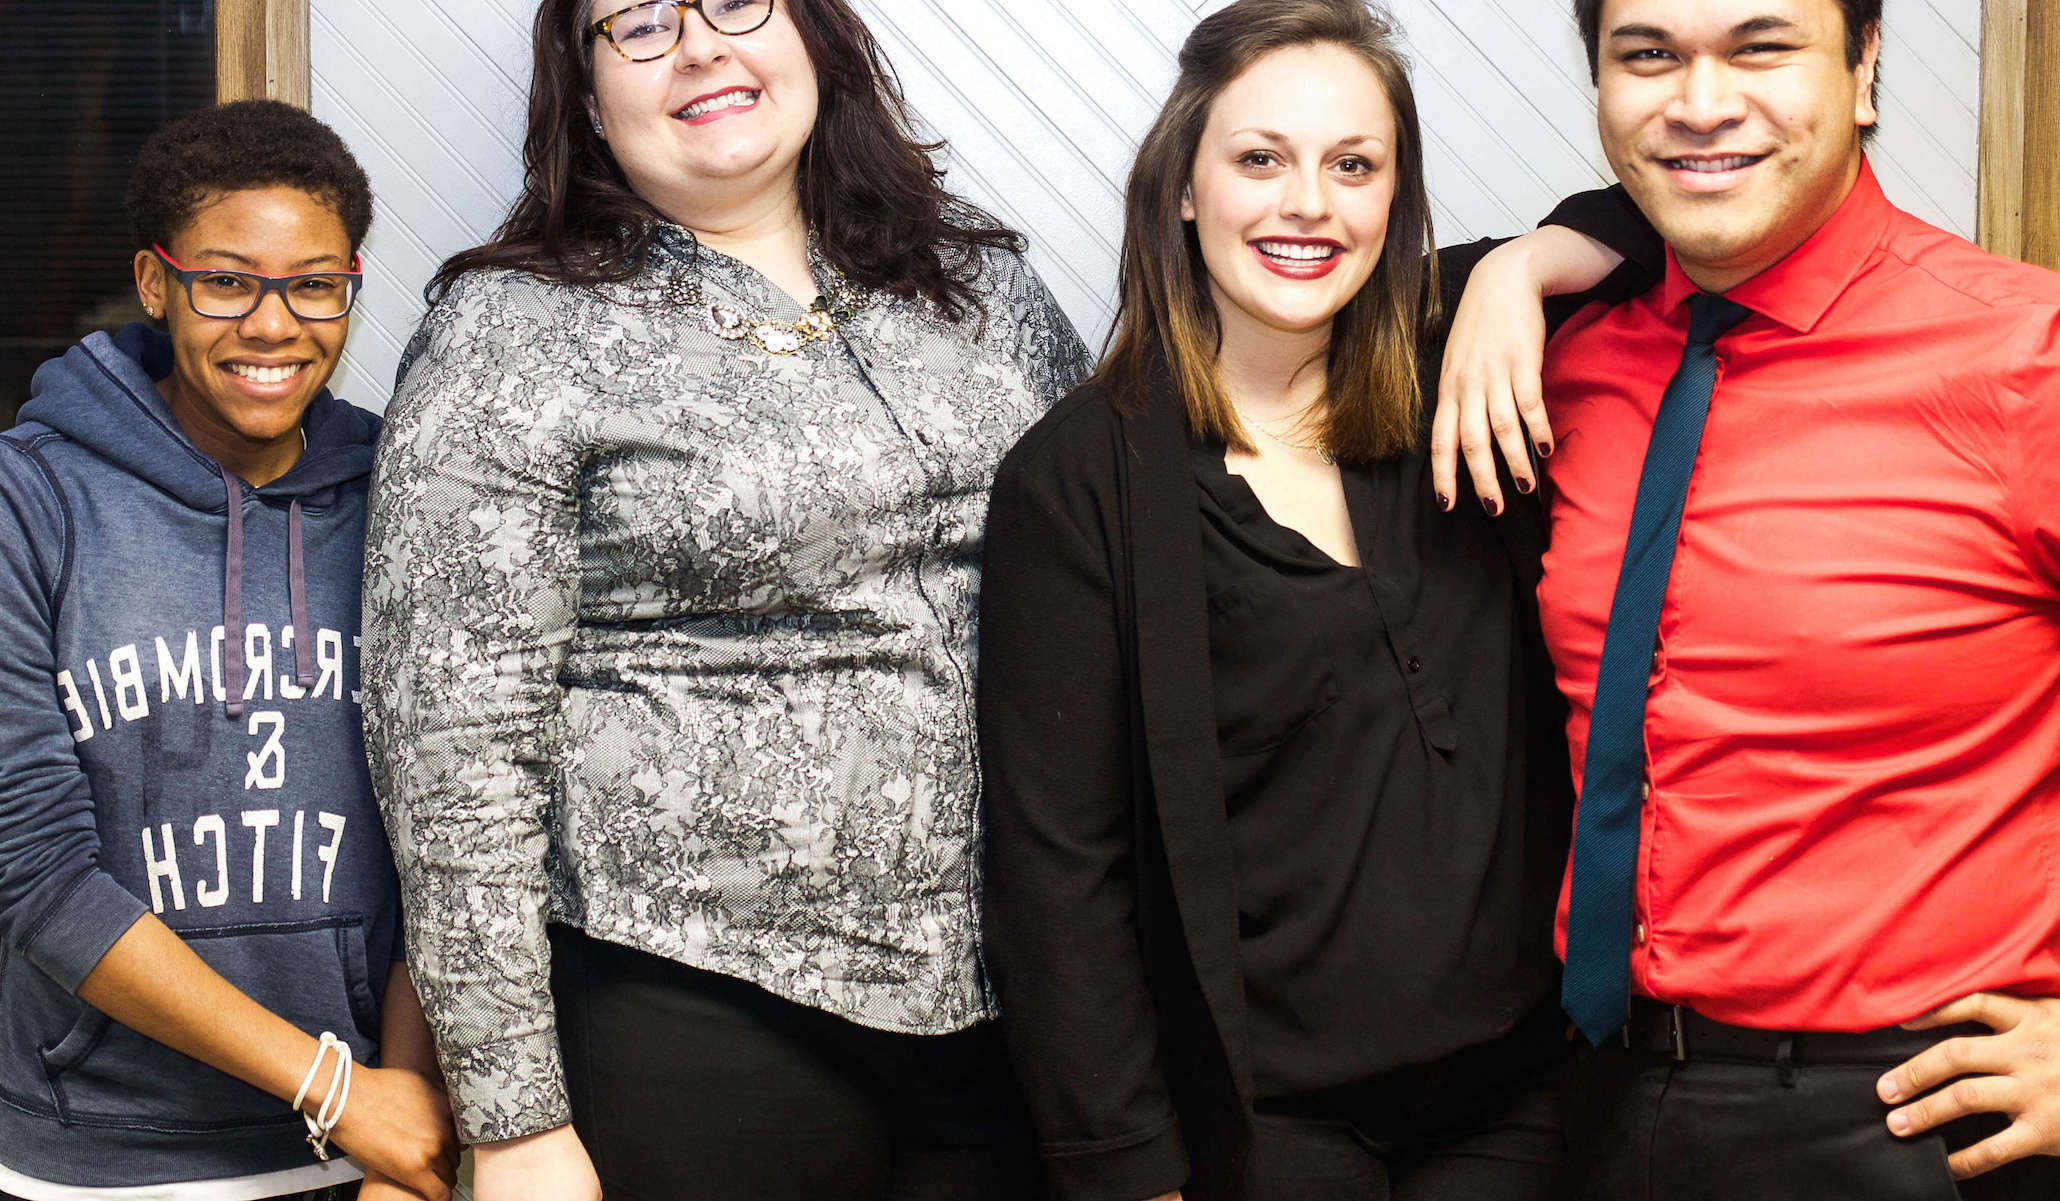
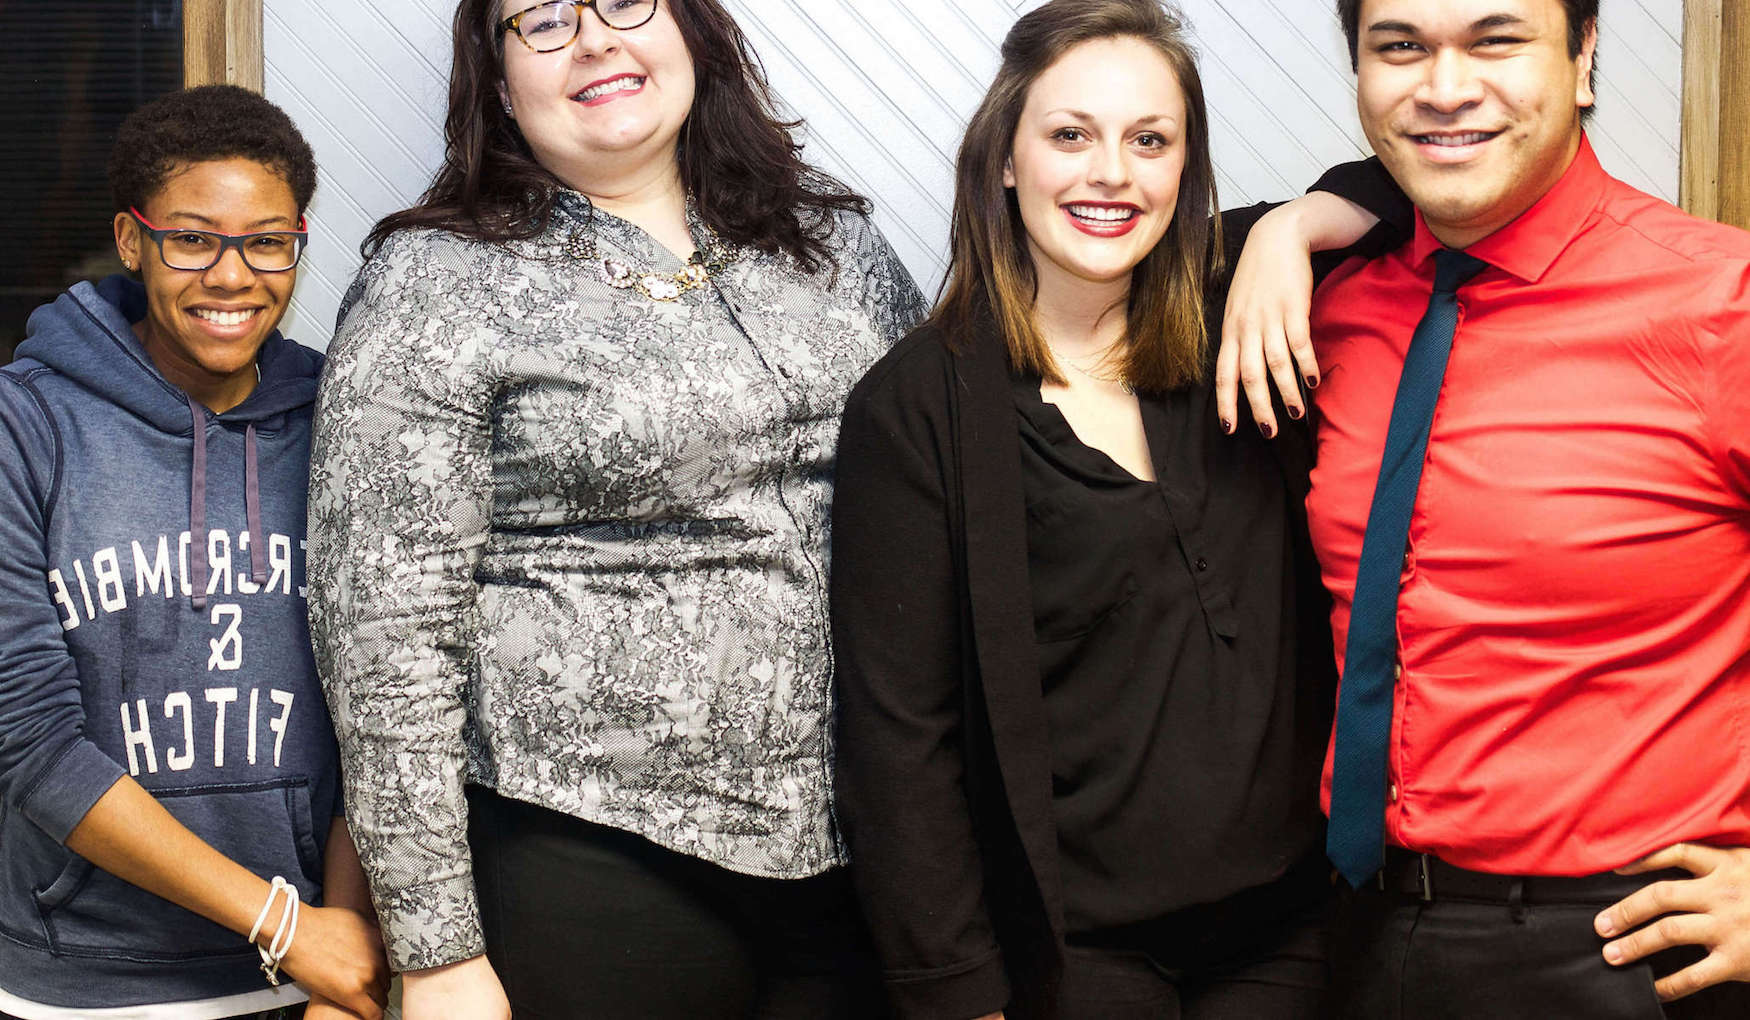
more compression

diff --git a/about.html b/about.html
@@ -231,7 +231,7 @@
 									</div>
 									<div class="thumbnail">
 										<span class="overlay-link">
-											<img src="images/team/kerouac.jpg" alt="Jack Kerouac"/>
+											<img src="images/team/kerouac2.jpg" alt="Jack Kerouac"/>
 											<span id="circadian" class="overlay-info animation-fade-in">
 												<span>
 													<span>
